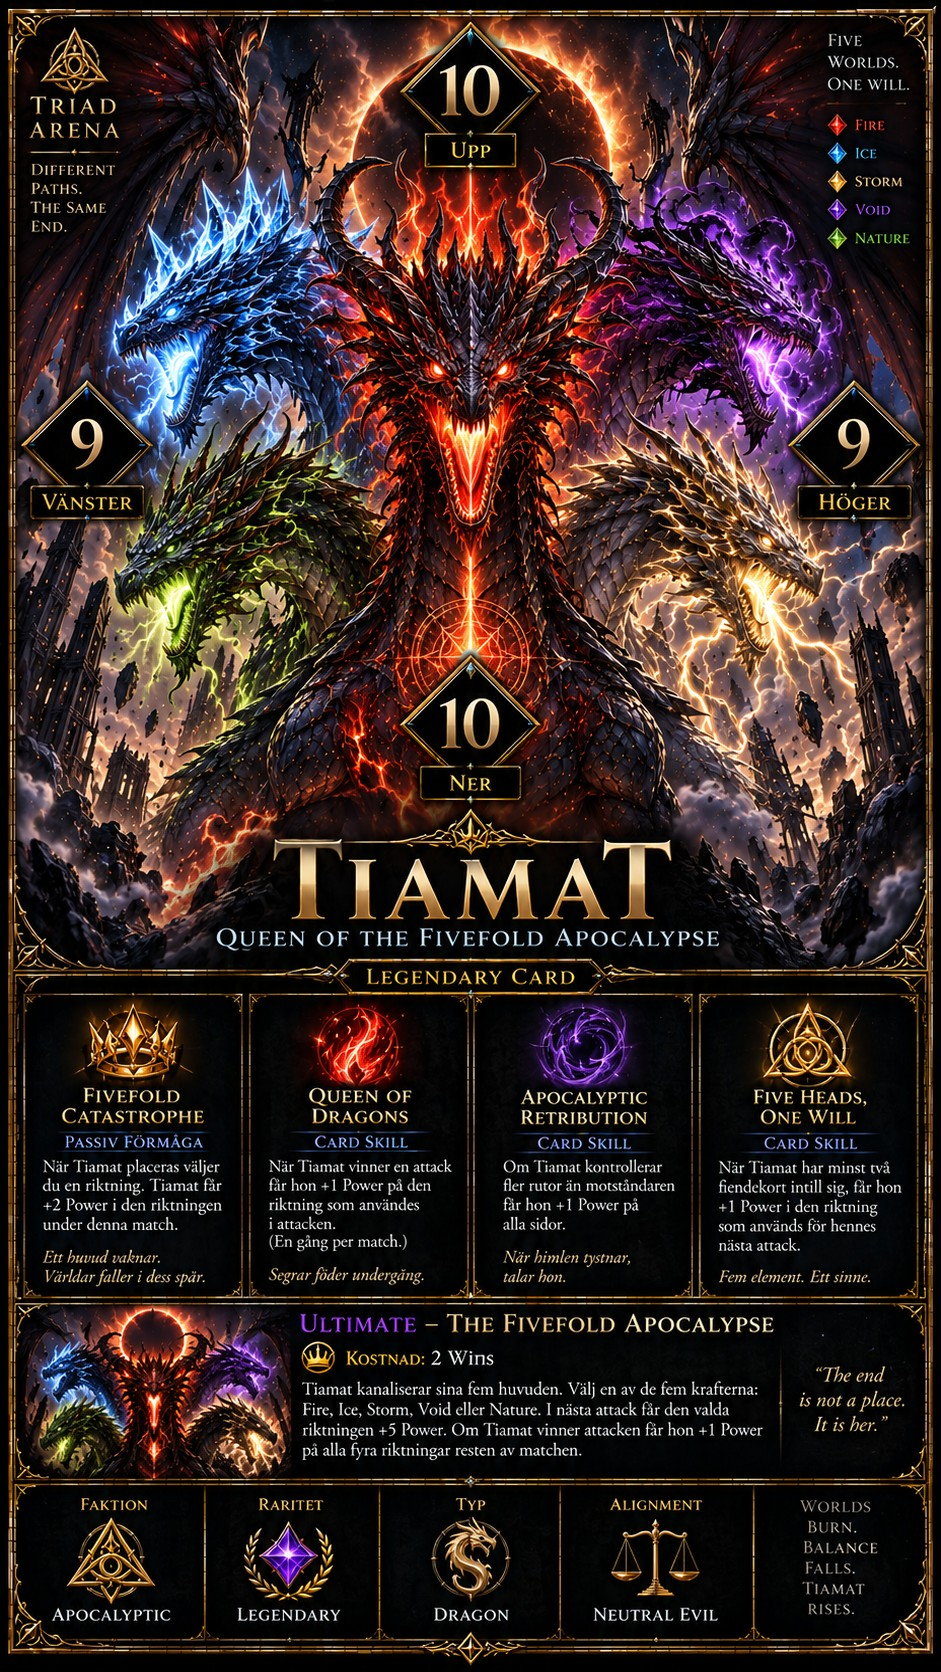
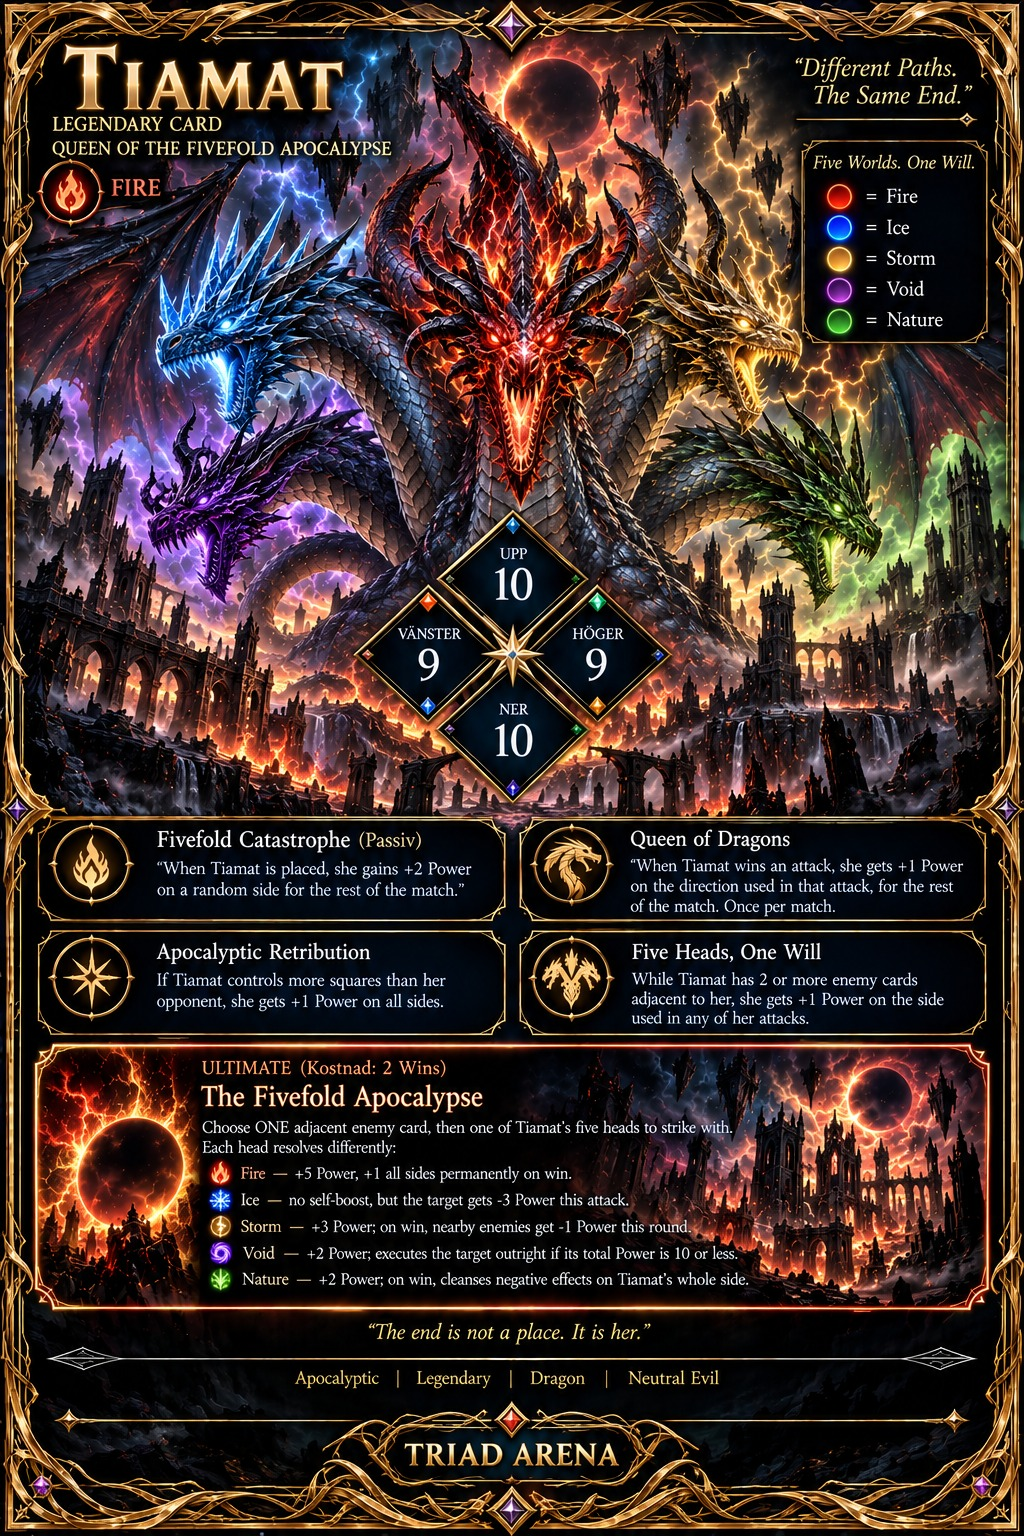
Tiamat/Three Head Dragon: add new approved art in the new gold-foil card template
Both cards move to a new "everything baked in" poster template (cross-
diamond stats, 2x2 ability grid, Ultimate box, faction/rarity/type/
alignment footer, quote) that reads more consistent than the older
poster style. Both posters' text was verified against the actual card
data/mechanics before art generation -- Tiamat's Ultimate box in
particular needed the corrected five-powers text (no AOE, no over-time
status effects) that matches SPECIAL_HANDLERS.tiamat exactly.

New source resolution (1024x1536, the generator's native size rather
than the project's usual 941x1672) needed a fresh thumbnail crop for
both: crop((167,100)-(856,550)) -> 640x418.

Claude-Session: https://claude.ai/code/session_01QUCTQPAAwJck4JUBJwvaoa

diff --git a/PROJECT.md b/PROJECT.md
@@ -1111,6 +1111,50 @@ Dragon tre huvuden/mystiskt-eld, bara ny pose/kvalitet i poster-stilen
 som Ferea/Evil Twist fick), men mekaniken kommer först så att den nya
 konsten kan visa de riktiga skill-texterna.
 
+**Uppdatering, samma session: ny konst mottagen för BÅDA korten.** En
+helt ny "guldfolierad kortmall"-stil
+introducerades den här sessionen (poster med allt inbakat: stats i en
+kors-diamant, ability-rutor i 2×2-rutnät, Ultimate-ruta, faktion/
+raritet/typ/alignment-fotrad, citat) — ett tydligt snyggare/mer
+konsekvent format än den äldre poster-mallen (se Ifrit/Ferea/Evil Twist
+ovan), avsett att bli standard för framtida kort. Two bildbrief-utkast
+för Tiamat i det nya formatet visade sig ha en sakfelaktig Ultimate-text
+(AOE mot alla fiender + flerrundors statuseffekter à la Burn/Freeze/
+Stun/Weakness/Poison, som inte finns i motorn alls) — briefen skrevs om
+med korrekt mekanik (ETT valt mål, en av fem krafter, alla omedelbara
+effekter) innan den skickades vidare.
+
+Three Head Dragons brief hade användaren redan skrivit helt korrekt
+själv (all text verifierad ordagrant mot koden innan konsten
+godkändes) — ny konst i den nya mallen matchade sedan exakt: stats
+10/10/10/8, alla fyra skills (inklusive Giftets Plåga/Poison's Torment,
+med EXAKT samma text som redan finns kodad från punkt 54 ovan), Apokalyps-
+ultimaten, faktion/raritet/typ/alignment-fotraden. Inga kodändringar
+behövdes. Flyttade den nya bilden direkt till standardnamnet
+`card-threeheaddragon-full.jpg` (samma fil som redan pekades på, bara
+innehållet bytt). Ny beskuren `cards/card-threeheaddragon.jpg` krävde en
+helt ny beskärningsberäkning eftersom källbilden denna gång är
+1024×1536 (bildgeneratorns egna nativa format, inte projektets
+941×1672-standard) — `crop((167,100)-(856,550))`, skalad till 640×418,
+vald för att visa alla tre huvuden utan att klippa in för mycket av
+titel-texten ovanför eller stat-diamanten nedanför.
+
+**Tiamats konst mottagen direkt efter, i samma session.** Matchade den
+omskrivna briefen exakt — alla fyra skills, Ultimate-texten ord för ord
+(inklusive alla fem krafternas korrekta mekanik, inget AOE/inga
+statuseffekter kvar), "Five Worlds. One Will."-legenden med rätt
+färgkodning (röd/blå/guld/lila/grön matchar Fire/Ice/Storm/Void/Nature),
+stats 10/9/9/10, citatet, faktion/raritet/typ/alignment-fotraden. Den
+begärda blågrå/gunmetal-kroppsfärgen (istället för tidigare svart/röd)
+syns tydligt, huvudena behöll sina egna färger som bett. Samma källupplösning
+(1024×1536) och samma beskärning (`crop((167,100)-(856,550))` → 640×418)
+som Three Head Dragon fungerade rakt av. Inga kodändringar behövdes —
+`FULL_CARD_IMAGES`/`CARD_IMAGES` pekade redan på rätt filnamn för båda
+korten sedan tidigare sessioner.
+
+Båda korten är nu helt klara: mekanik (punkt 54 ovan) OCH konst, i den
+nya guldfolierade mallen som troligen blir standard framåt.
+
 **Öppen tråd, inte påbörjad än:** användaren föreslog en egen
 drak-tema campaign-etapp (Tiamat, Bahamut, Three Head Dragon, Ancient
 Wyrmking, Ifrit, Tahabata är alla `isDragon`/drak-tema; Kaeldryx är
